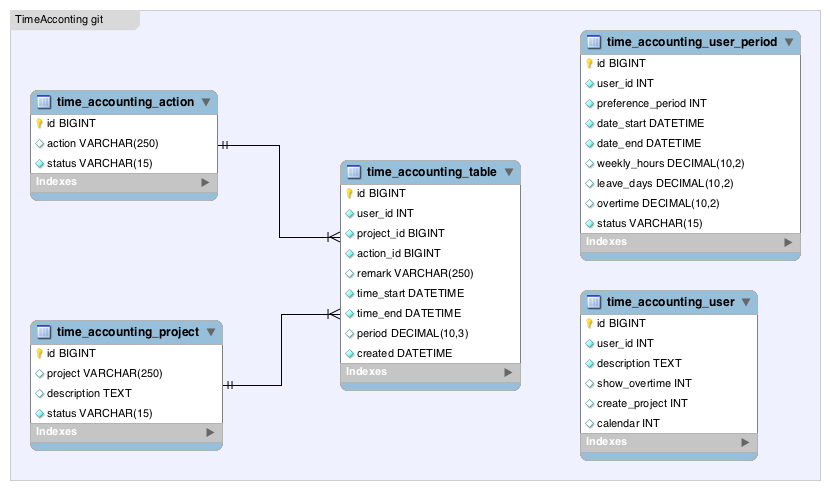
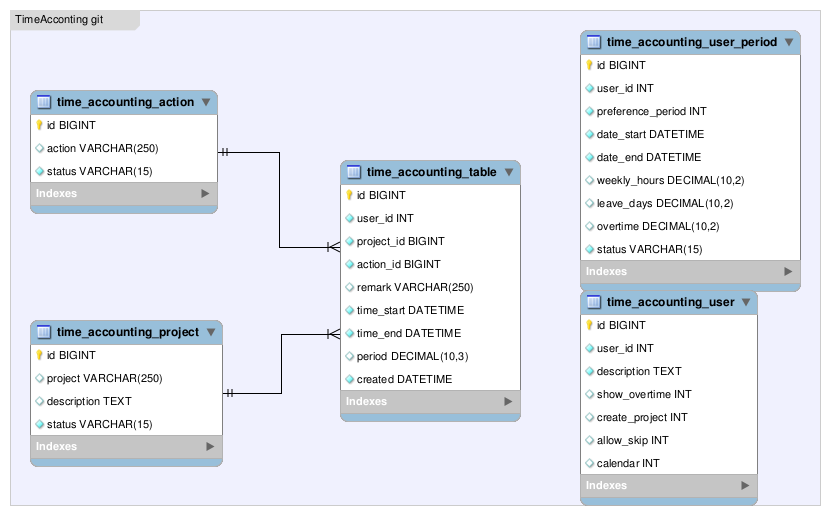
Allow specific users to skip time accounting.

diff --git a/CHANGES-TimeAccounting.md b/CHANGES-TimeAccounting.md
@@ -1,4 +1,5 @@
 #6.0.5 20??-??-??
+ - 2018-06-26 Added feature - Allow specific users to skip time accounting.
  - 2018-06-20 Fixed bug#[13467](https://bugs.otrs.org/show_bug.cgi?id=13467) - Setting "Days of vacation" to value 0 not possible.
 
 #6.0.4 2018-05-04
